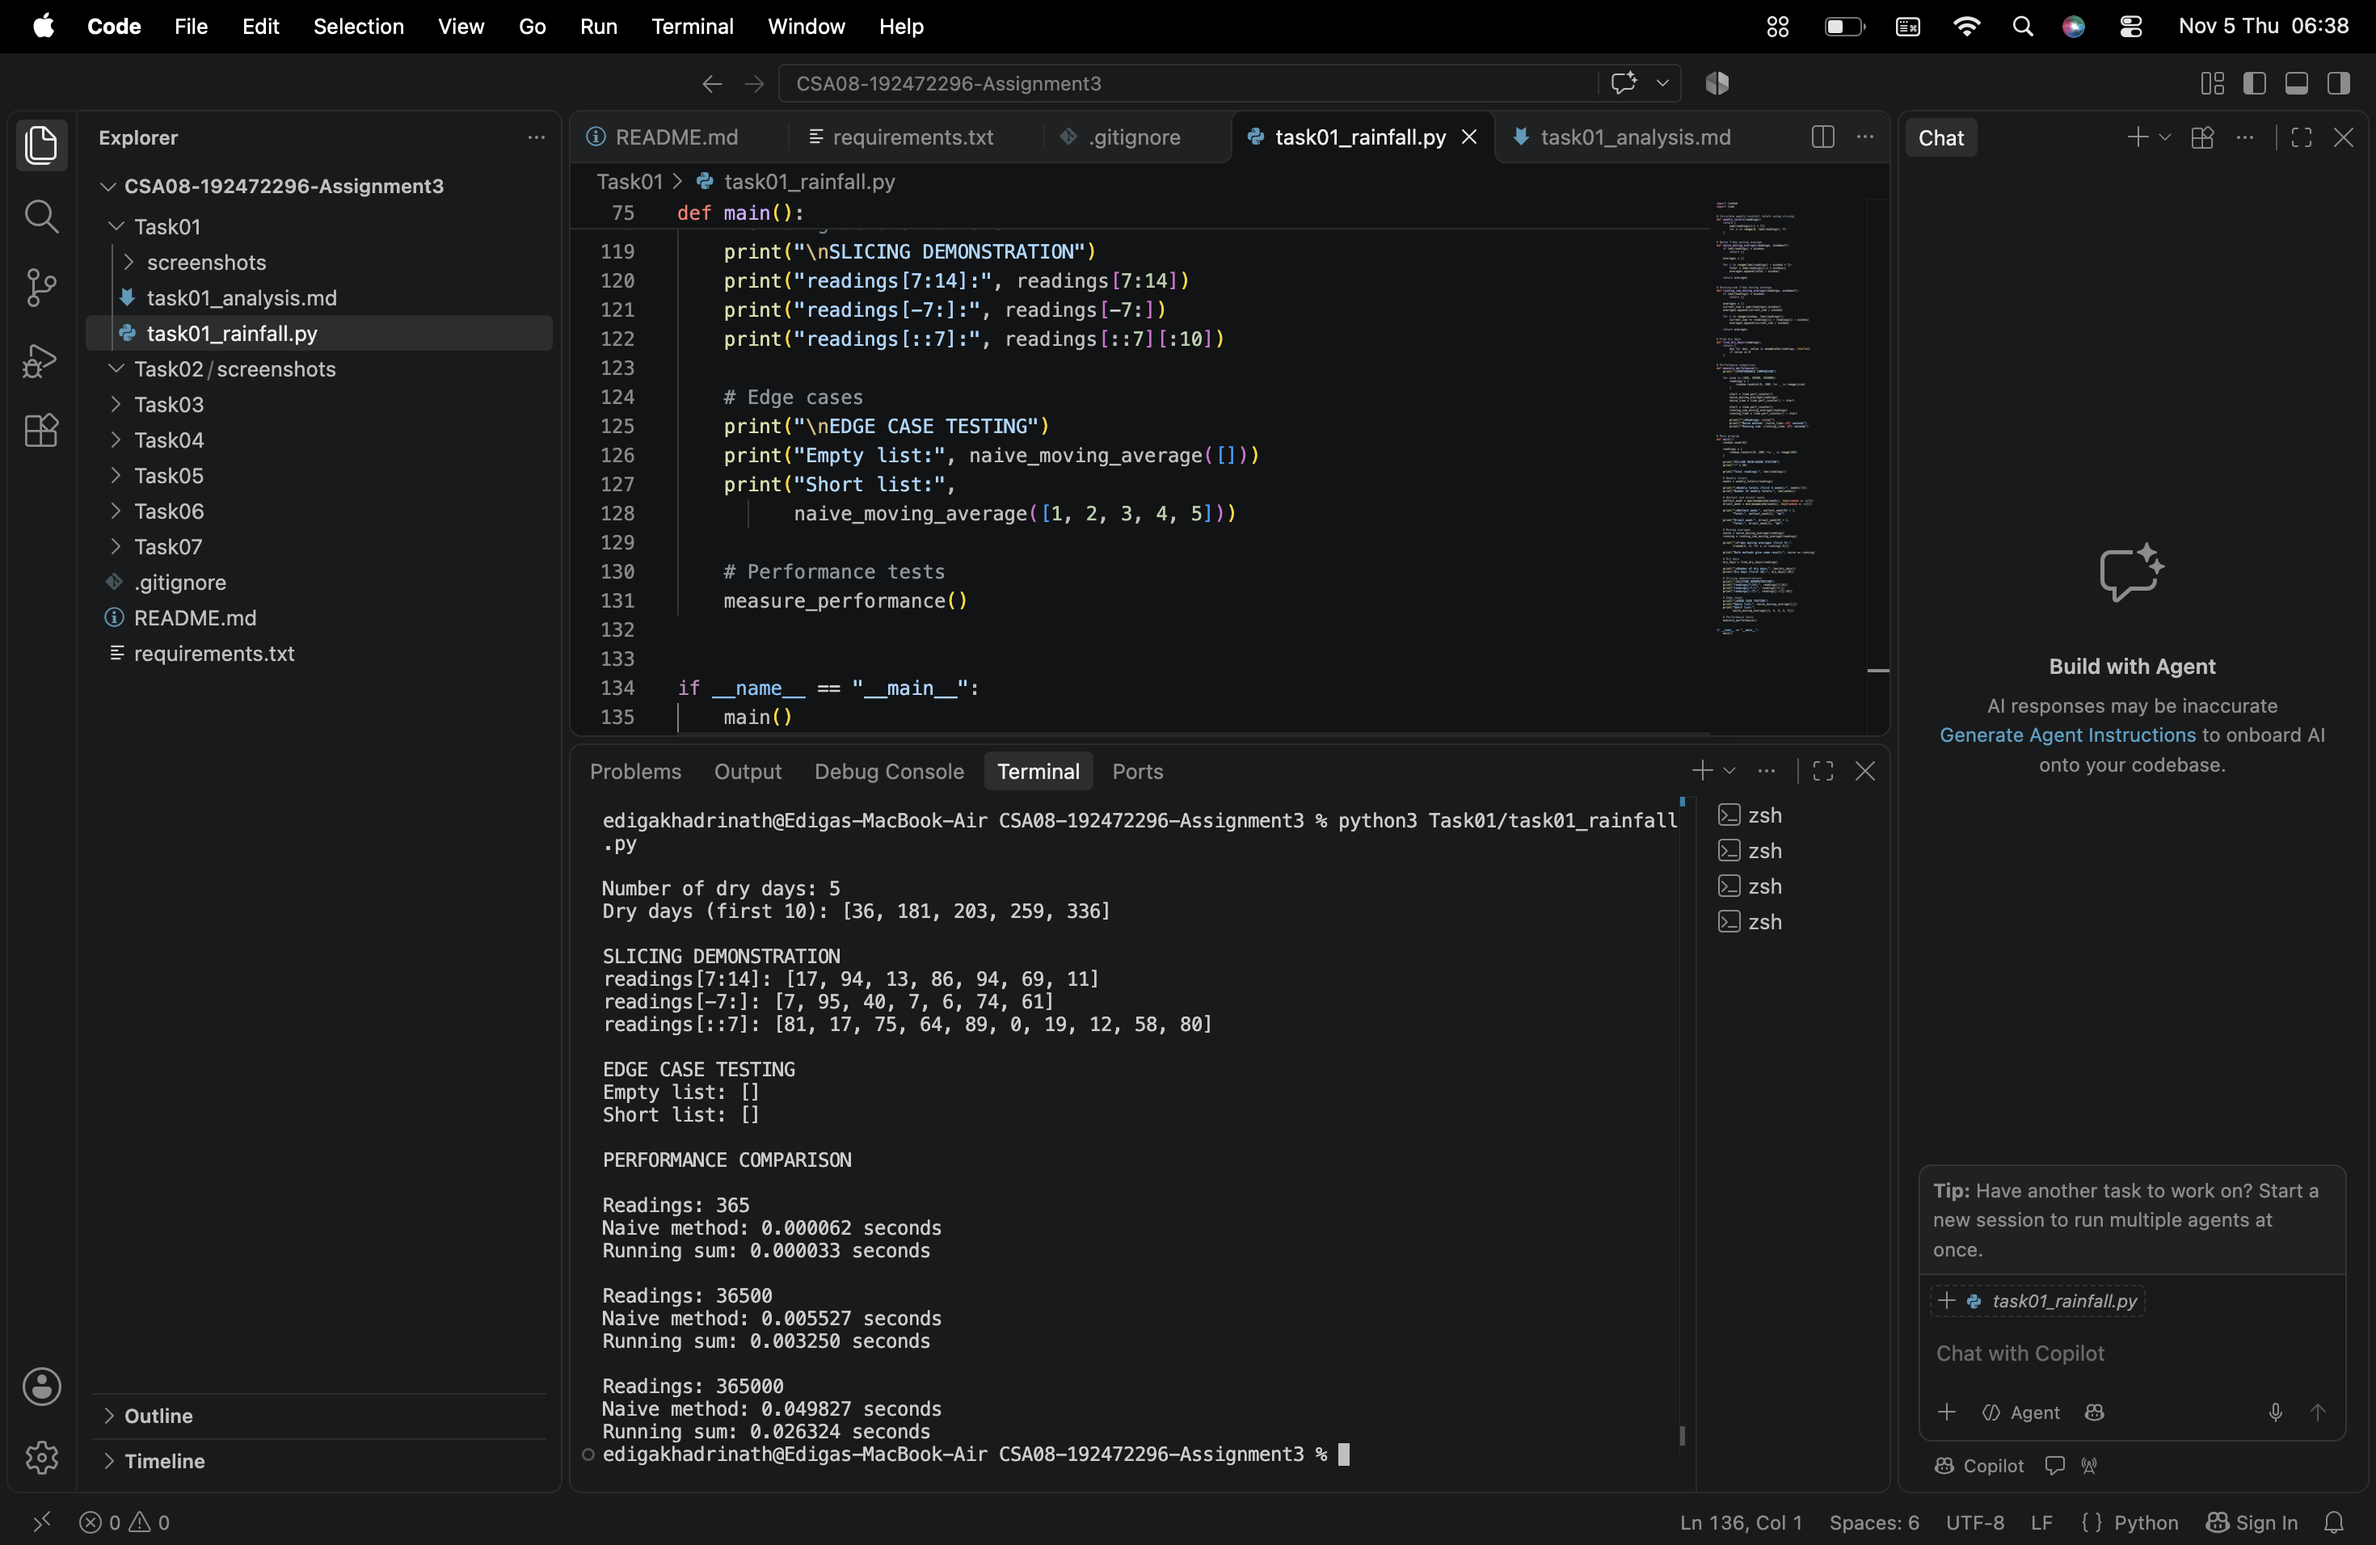
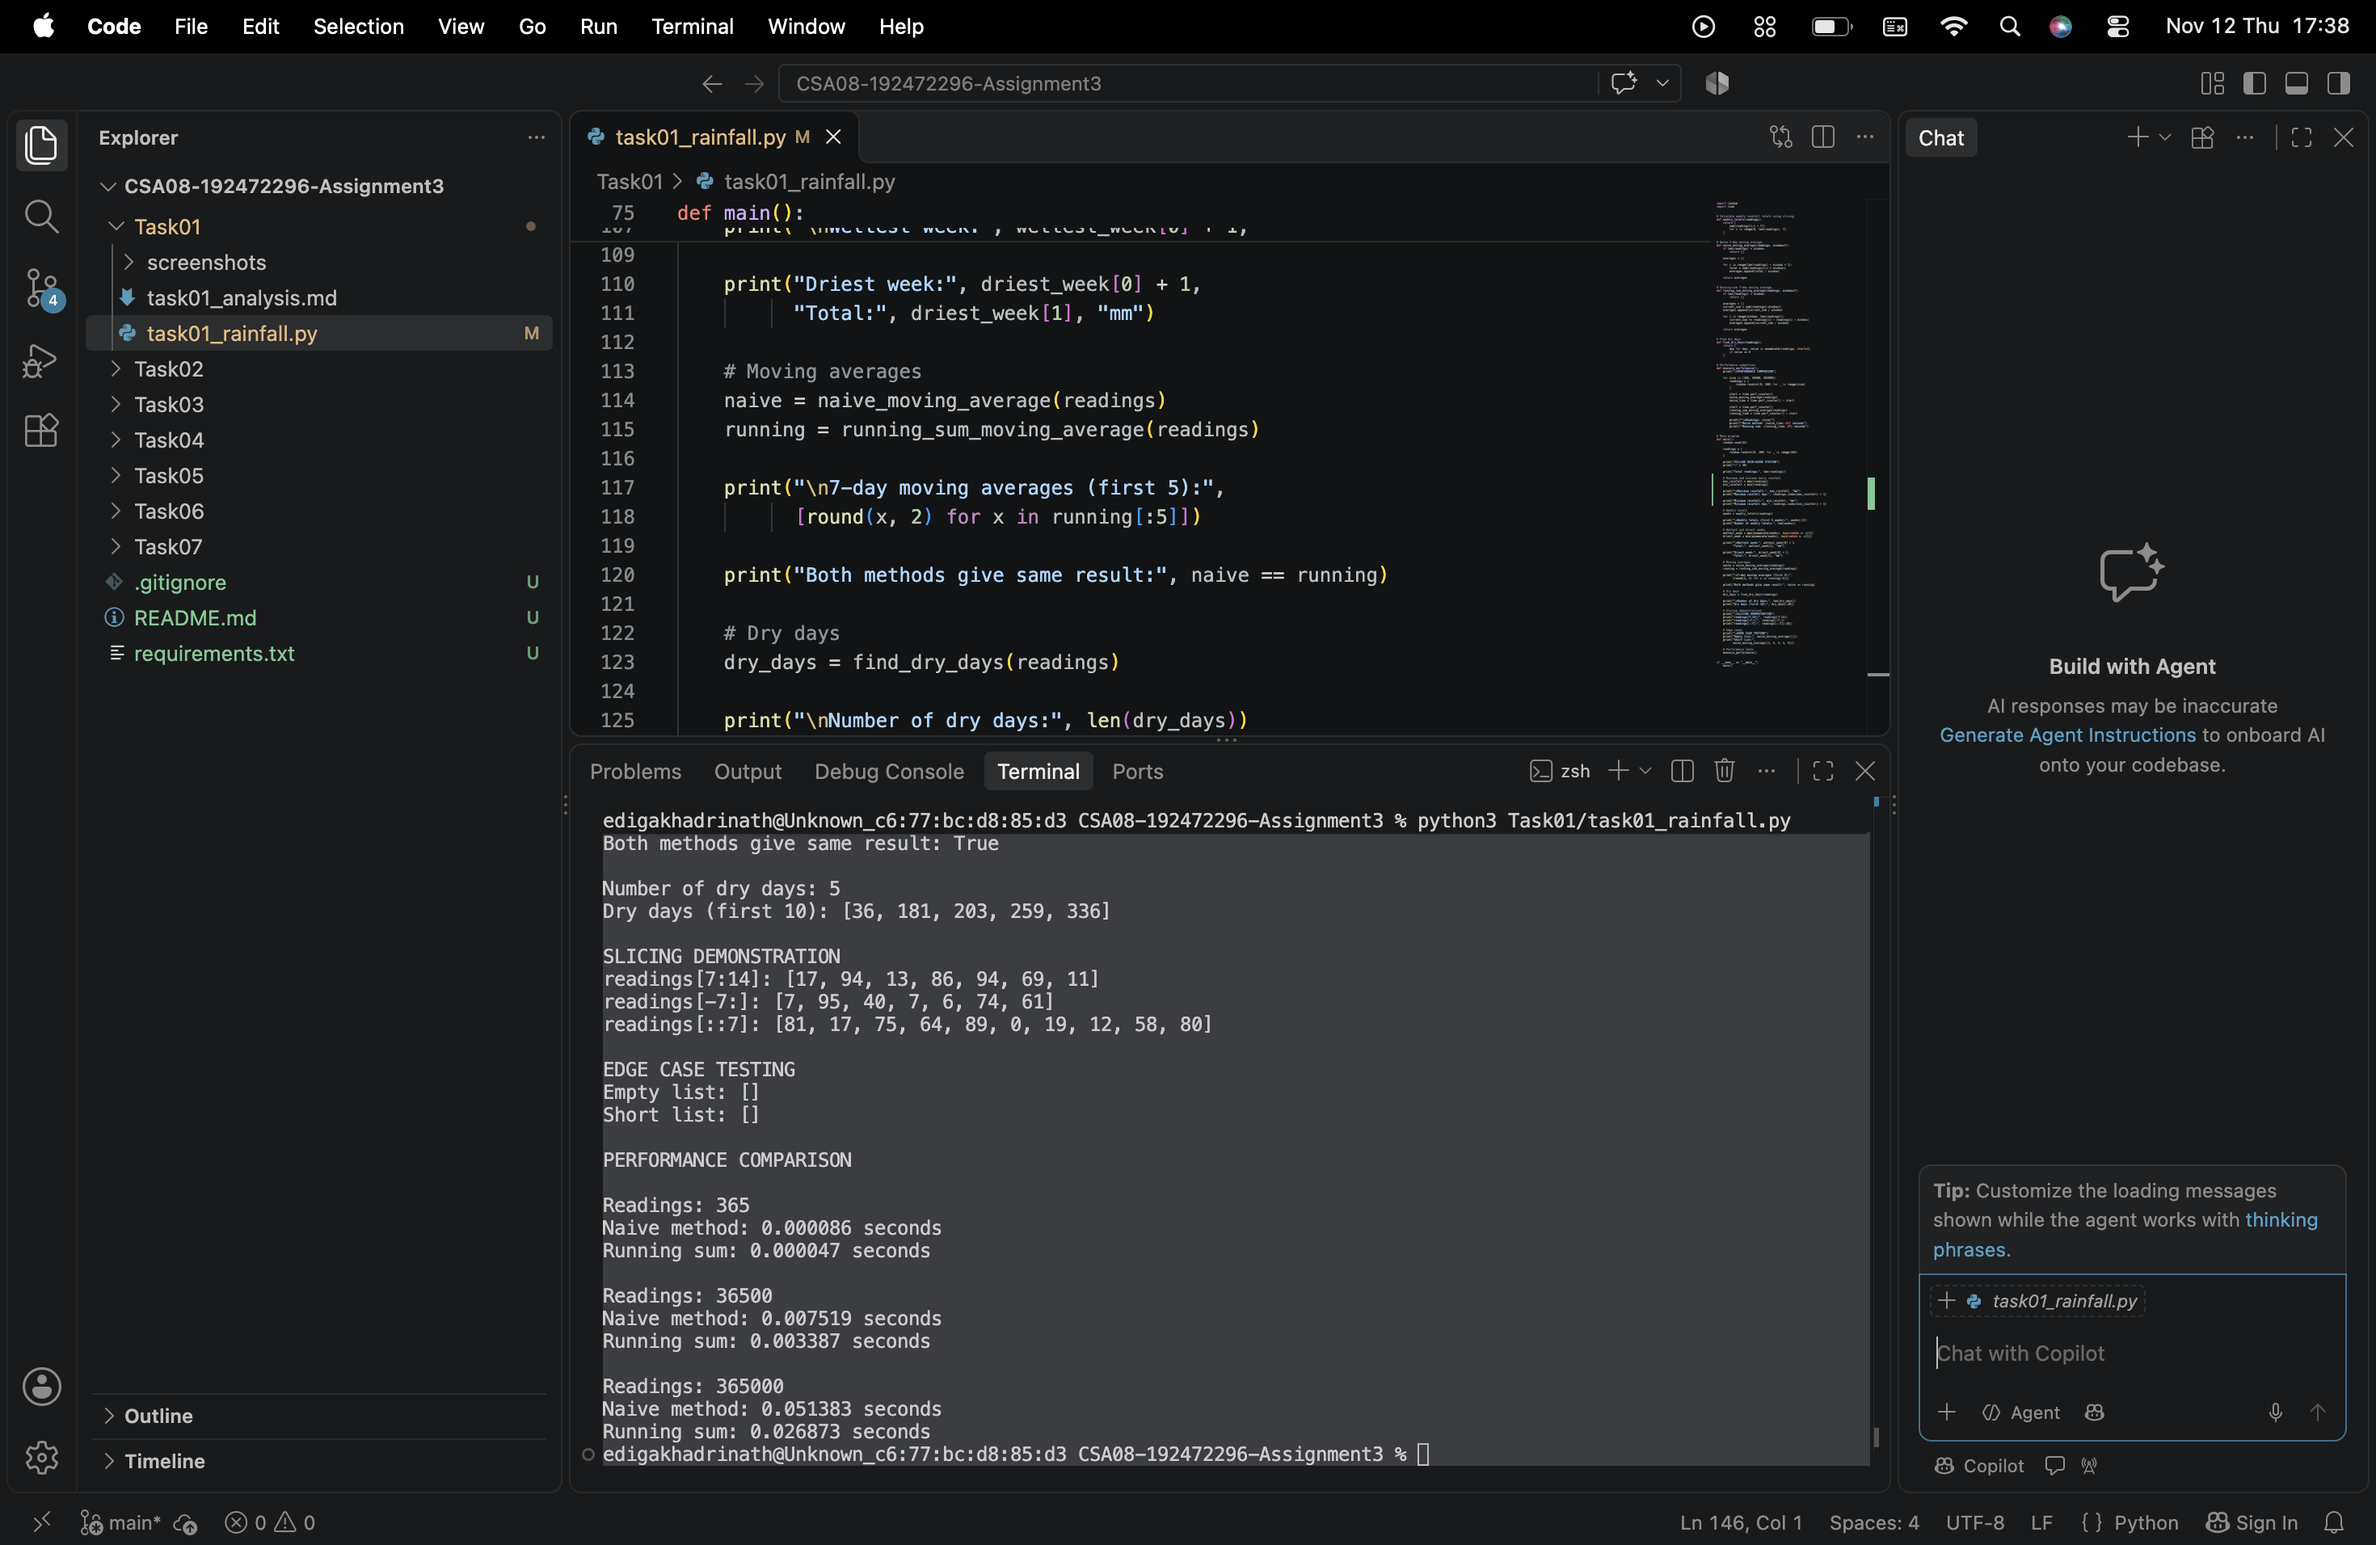
Q1: Complete rainfall analysis and project setup

diff --git a/Task01/task01_rainfall.py b/Task01/task01_rainfall.py
@@ -84,6 +84,16 @@ def main():
 
     print("Total readings:", len(readings))
 
+    # Maximum and minimum daily rainfall
+    max_rainfall = max(readings)
+    min_rainfall = min(readings)
+
+    print("\nMaximum rainfall:", max_rainfall, "mm")
+    print("Maximum rainfall day:", readings.index(max_rainfall) + 1)
+
+    print("Minimum rainfall:", min_rainfall, "mm")
+    print("Minimum rainfall day:", readings.index(min_rainfall) + 1)
+
     # Weekly totals
     weeks = weekly_totals(readings)
 

diff --git a/Task01/task01_analysis.md b/Task01/task01_analysis.md
@@ -14,7 +14,18 @@ A list is suitable because:
 - It allows modification of rainfall values.
 - It supports iteration and built-in functions.
 
-## 3. Pseudocode – 7-Day Moving Average
+## 3. Maximum and Minimum Rainfall
+
+The program identifies the maximum and minimum daily rainfall values using Python's built-in `max()` and `min()` functions.
+
+| Measurement | Rainfall | Day |
+|---|---:|---:|
+| Maximum rainfall | 100 mm | 282 |
+| Minimum rainfall | 0 mm | 36 |
+
+The `index()` method identifies the position of the first occurrence of each value. Adding 1 converts the zero-based index into a day number.
+
+## 4. Pseudocode – 7-Day Moving Average
 
 ```text
 START
@@ -32,13 +43,13 @@ RETURN averages
 STOP
 ```
 
-## 4. List Slicing Explanation
+## 5. List Slicing Explanation
 
 - `readings[7:14]` – Returns elements from index 7 to index 13.
 - `readings[-7:]` – Returns the last seven readings.
 - `readings[::7]` – Returns every seventh reading, starting from index 0.
 
-## 5. List Operation Complexity
+## 6. List Operation Complexity
 
 | Operation | Time Complexity |
 |---|---|
@@ -48,7 +59,7 @@ STOP
 | pop() at beginning | O(n) |
 | sort() | O(n log n) |
 
-## 6. Moving Average Complexity
+## 7. Moving Average Complexity
 
 ### Naive Method
 
@@ -72,21 +83,21 @@ Time complexity: O(n).
 
 The running-sum method avoids repeatedly summing all seven values.
 
-## 7. Experimental Investigation
+## 8. Experimental Investigation
 
 The program generated random rainfall readings and compared both methods.
 
 | Readings | Naive Time (seconds) | Running-Sum Time (seconds) |
 |---:|---:|---:|
-| 365 | 0.000062 | 0.000033 |
-| 36,500 | 0.005527 | 0.003250 |
-| 365,000 | 0.049827 | 0.026324 |
+| 365 | 0.000086 | 0.000047 |
+| 36,500 | 0.007519 | 0.003387 |
+| 365,000 | 0.051383 | 0.026873 |
 
-Observation: The running-sum method was faster in all three experiments.
+**Observation:** The running-sum method was faster in all three experiments.
 
 Timings may vary between executions and computers.
 
-## 8. Edge Case Testing
+## 9. Edge Case Testing
 
 | Test Case | Input | Expected Result | Observed Result |
 |---|---|---|---|
@@ -95,13 +106,24 @@ Timings may vary between executions and computers.
 | TC03 | 365 readings | 365-day analysis | Passed |
 | TC04 | Zero rainfall | Identify dry days | Passed |
 
-## 9. Late Reading Insertion
+## 10. Weekly Rainfall Analysis
+
+The program generates 365 daily readings and groups them into seven-day periods using list slicing.
+
+It produces 53 weekly totals because 365 days contain 52 complete weeks and one remaining day.
+
+- Wettest week: Week 50 – 590 mm.
+- Driest week: Week 53 – 61 mm.
+
+The final weekly total represents the remaining one-day period.
+
+## 11. Late Reading Insertion
 
 The `list.insert()` operation takes O(n) time in the worst case because existing elements may need to be shifted.
 
 A list is still suitable for 365 daily readings. For frequent insertions, a different data structure such as a deque may be considered.
 
-## 10. Alternative Concepts
+## 12. Alternative Concepts
 
 ### Using collections.deque
 
@@ -128,8 +150,10 @@ rainfall = {
 
 It allows readings to be accessed by date, but chronological ordering and missing dates must be handled carefully.
 
-## 11. Conclusion
+## 13. Conclusion
 
 The list data structure is suitable for storing daily rainfall readings. Both moving-average methods produce the same results, but the running-sum method is faster in the experiments.
+
+The program successfully identifies maximum and minimum rainfall, weekly totals, dry days and moving averages.
 
 Therefore, the running-sum approach is recommended for efficient rainfall analysis.

diff --git a/README.md b/README.md
@@ -1,0 +1,42 @@
+# CSA08 – Python Programming
+## Assignment 3 – CO3: Python Data Structures
+
+### Student Details
+- **Name:** Khadrinath Gowd
+- **Register Number:** 192472296
+- **Course:** B.Tech – CSE (AI)
+- **Python Version:** 3.13.9
+
+### Assignment Details
+- **Subject:** Python Programming
+- **Assignment:** 3
+- **Total Marks:** 50
+- **Topics:** Lists, Tuples, Dictionaries, Sets, List Comprehensions and Nested Data Structures.
+
+### Project Structure
+- Task01 – Lists and Slicing
+- Task02 – Tuples, Mutability and Copying
+- Task03 – Dictionaries
+- Task04 – Sets
+- Task05 – List Comprehension
+- Task06 – Nested Data Structures
+- Task07 – Contact Merging
+
+### Libraries Used
+Python standard libraries:
+- random
+- time
+- sys
+- copy
+- collections
+
+### Execution
+Run each Python program using:
+
+`python3 filename.py`
+
+### Task Results
+Execution results, test cases, performance measurements and screenshots will be documented separately for each task.
+
+### Version Control
+Git and GitHub are used for progressive commits and project submission.
